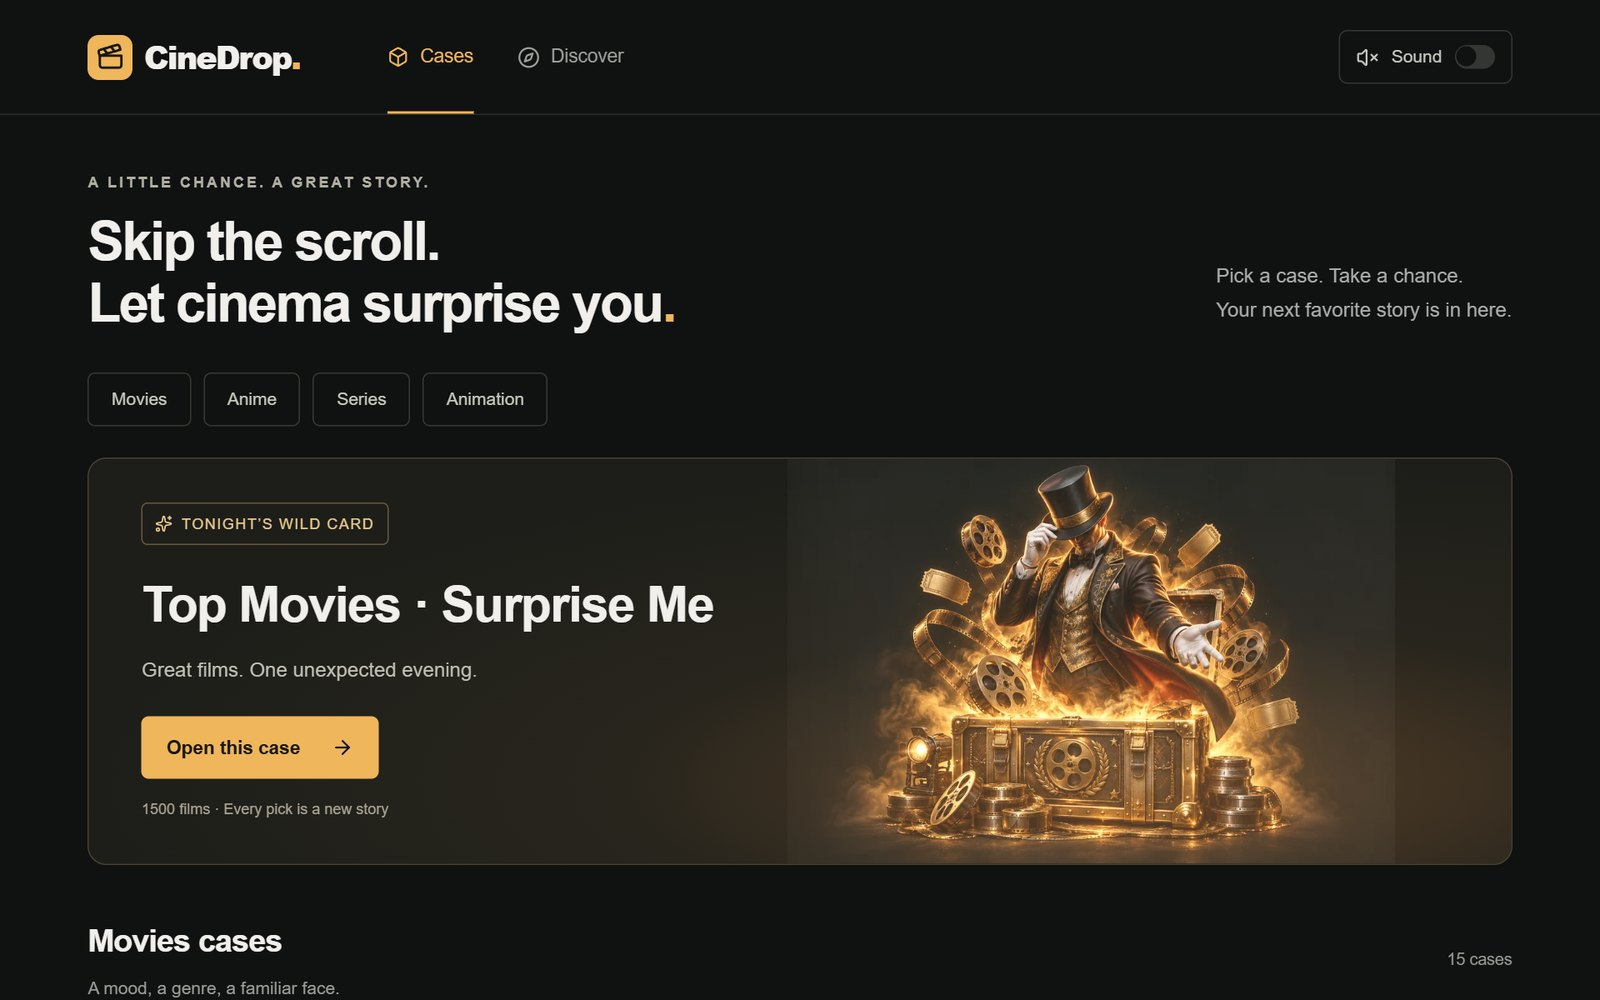
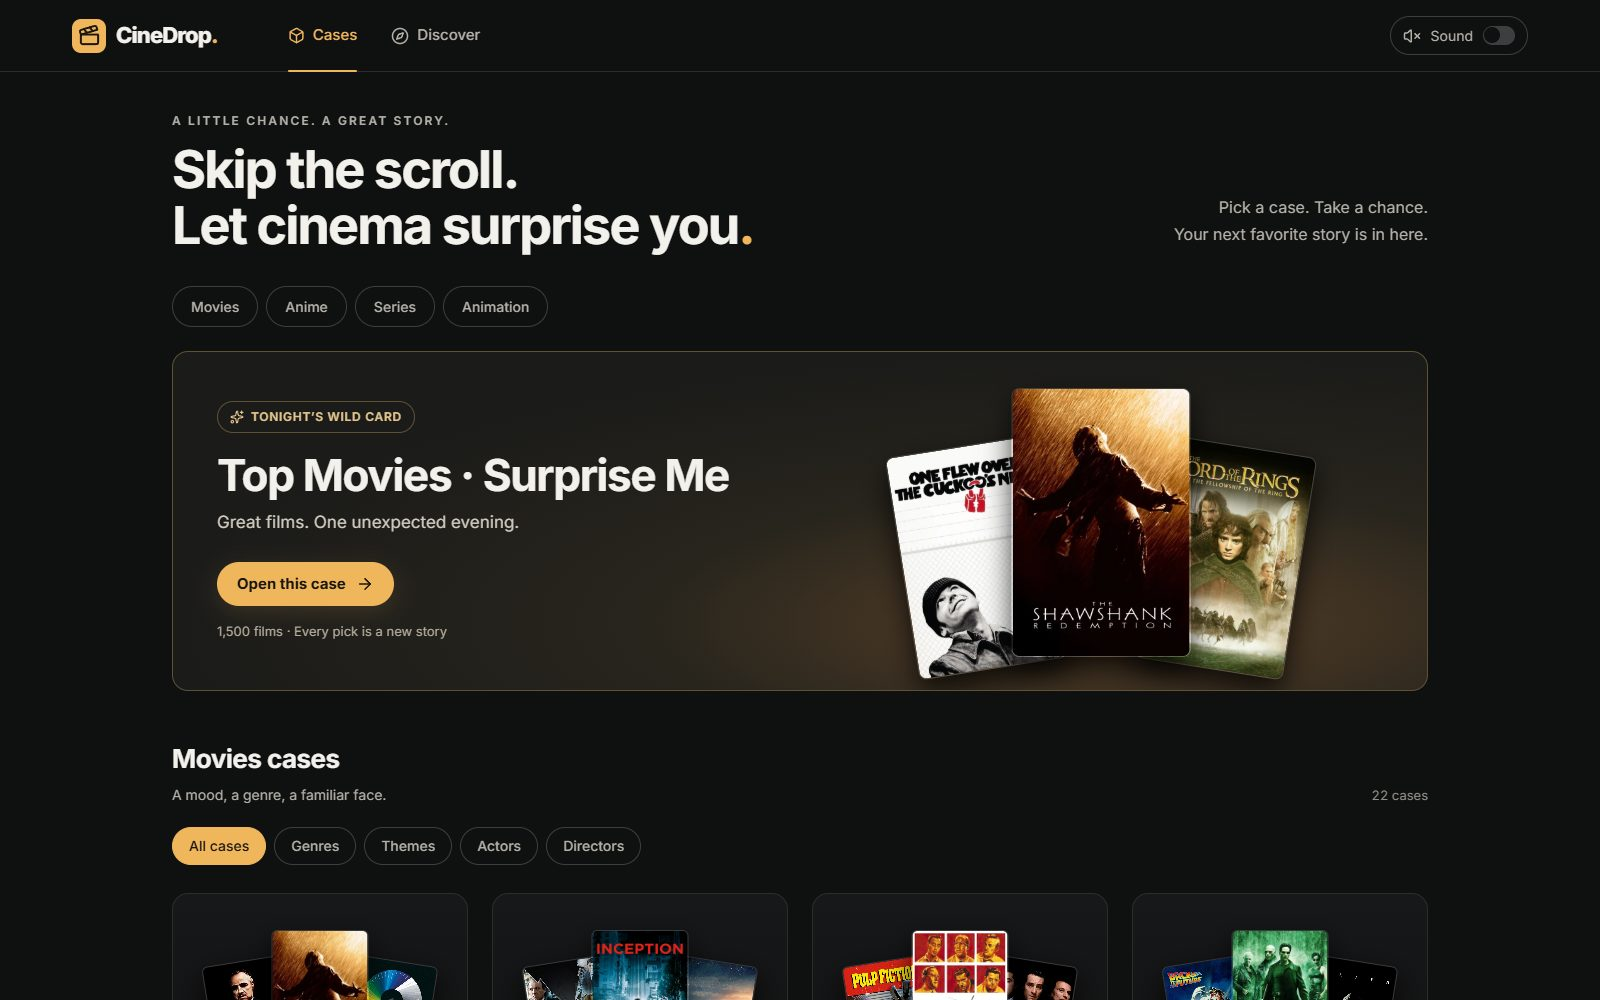
Update showcase for the redesign: 43 cases, poster covers, series IMDb ratings, daily new releases

diff --git a/README.md b/README.md
@@ -1,6 +1,7 @@
 # CineDrop — let cinema surprise you
 
-Can't decide what to watch? Pick a themed case, spin the reel, and CineDrop drops your next film.
+Can't decide what to watch? Pick a themed case, spin the reel, and CineDrop drops your next film,
+series or anime.
 
 **[Open the live site → cinedrop-beta.vercel.app](https://cinedrop-beta.vercel.app)**
 
@@ -8,12 +9,21 @@ Can't decide what to watch? Pick a themed case, spin the reel, and CineDrop drop
 
 ## Features
 
-- **Case opening** — choose a case and spin the cinema reel; it stops on one title, your pick for tonight.
-- **Themed cases** — 15 movie cases (genres, themes, actor and director ensembles), plus 5 each for anime, series and animation. Each case holds up to 1,500 titles.
-- **Discover** — browse a catalog of 12,759 films, search by film, actor or director, filter by genre and sort.
-- **Ratings with sources** — every rating shows where it comes from (IMDb or TMDb) and its snapshot date.
+- **Case opening** — choose a case and spin the cinema reel; it stops on one title, your pick for
+  tonight. Quick opening and Skip animation are there when you are in a hurry.
+- **43 themed cases** — 22 movie cases (genres, decades, themes, actor and director ensembles),
+  8 series cases, 8 anime cases and 5 animation cases. Each case holds up to 1,500 titles, and
+  every case cover is a fan of real posters from that case.
+- **Discover** — browse more than 12,800 films, search by film, actor or director, filter by
+  genre and sort. New releases are added automatically every day.
+- **Series and anime** — search the live [TVmaze](https://www.tvmaze.com/) and
+  [AniList](https://anilist.co/) catalogs; series show their IMDb rating where IMDb has one, and
+  anime listings only include titles that have actually aired.
+- **Ratings with sources** — every rating shows where it comes from (IMDb, TMDb, TVmaze or
+  AniList) and its snapshot date.
+- **Accessible and responsive** — keyboard friendly, screen-reader announcements for the result,
+  reduced-motion support, and a layout built for phones as well as desktops.
 - **Sound effects** — optional reel sounds, off by default.
-- **Responsive** — works on phones and desktops.
 
 ## Screenshots
 
@@ -27,16 +37,22 @@ Can't decide what to watch? Pick a themed case, spin the reel, and CineDrop drop
 
 | Area | Technology |
 | --- | --- |
-| Framework | [Next.js](https://nextjs.org/) (App Router) and React |
+| Framework | [Next.js 16](https://nextjs.org/) (App Router), React 19 and TypeScript |
+| Styling | [Tailwind CSS 4](https://tailwindcss.com/), [shadcn/ui](https://ui.shadcn.com/) components and [Inter](https://rsms.me/inter/) |
 | Icons | [Lucide](https://lucide.dev/) |
-| Data | Film datasets derived from TMDb, plus Stremio Cinemeta / MetaHub for recent titles and posters |
+| Data | Film datasets derived from TMDb, [Stremio Cinemeta](https://github.com/Stremio/stremio-addon-sdk) for new releases, IMDb ratings and posters, TVmaze for series and AniList for anime |
 | Hosting | [Vercel](https://vercel.com/) |
 
 ## Data
 
-The catalog combines the TMDb / Udacity dataset, The Movies Dataset and a 250-film demo collection, refreshed with recent releases from Cinemeta. Posters fall back to an alternate source when the main image fails. Ratings are historical snapshots, not live rankings.
+The film catalog combines the TMDb / Udacity dataset, The Movies Dataset and a 250-film demo
+collection. Cinemeta is checked daily for new releases and current IMDb ratings, so the catalog
+keeps growing without a redeploy. Series come from TVmaze (CC BY-SA) with IMDb ratings where
+available; anime come from AniList. Posters fall back to an alternate source when the main image
+fails. Ratings are snapshots, not live rankings.
 
-This product uses TMDB API-derived datasets but is not endorsed or certified by TMDB. Film imagery and metadata belong to TMDB and the respective rights holders.
+This product uses TMDB API-derived datasets but is not endorsed or certified by TMDB. Film imagery
+and metadata belong to TMDB and the respective rights holders.
 
 ## Source code
 
